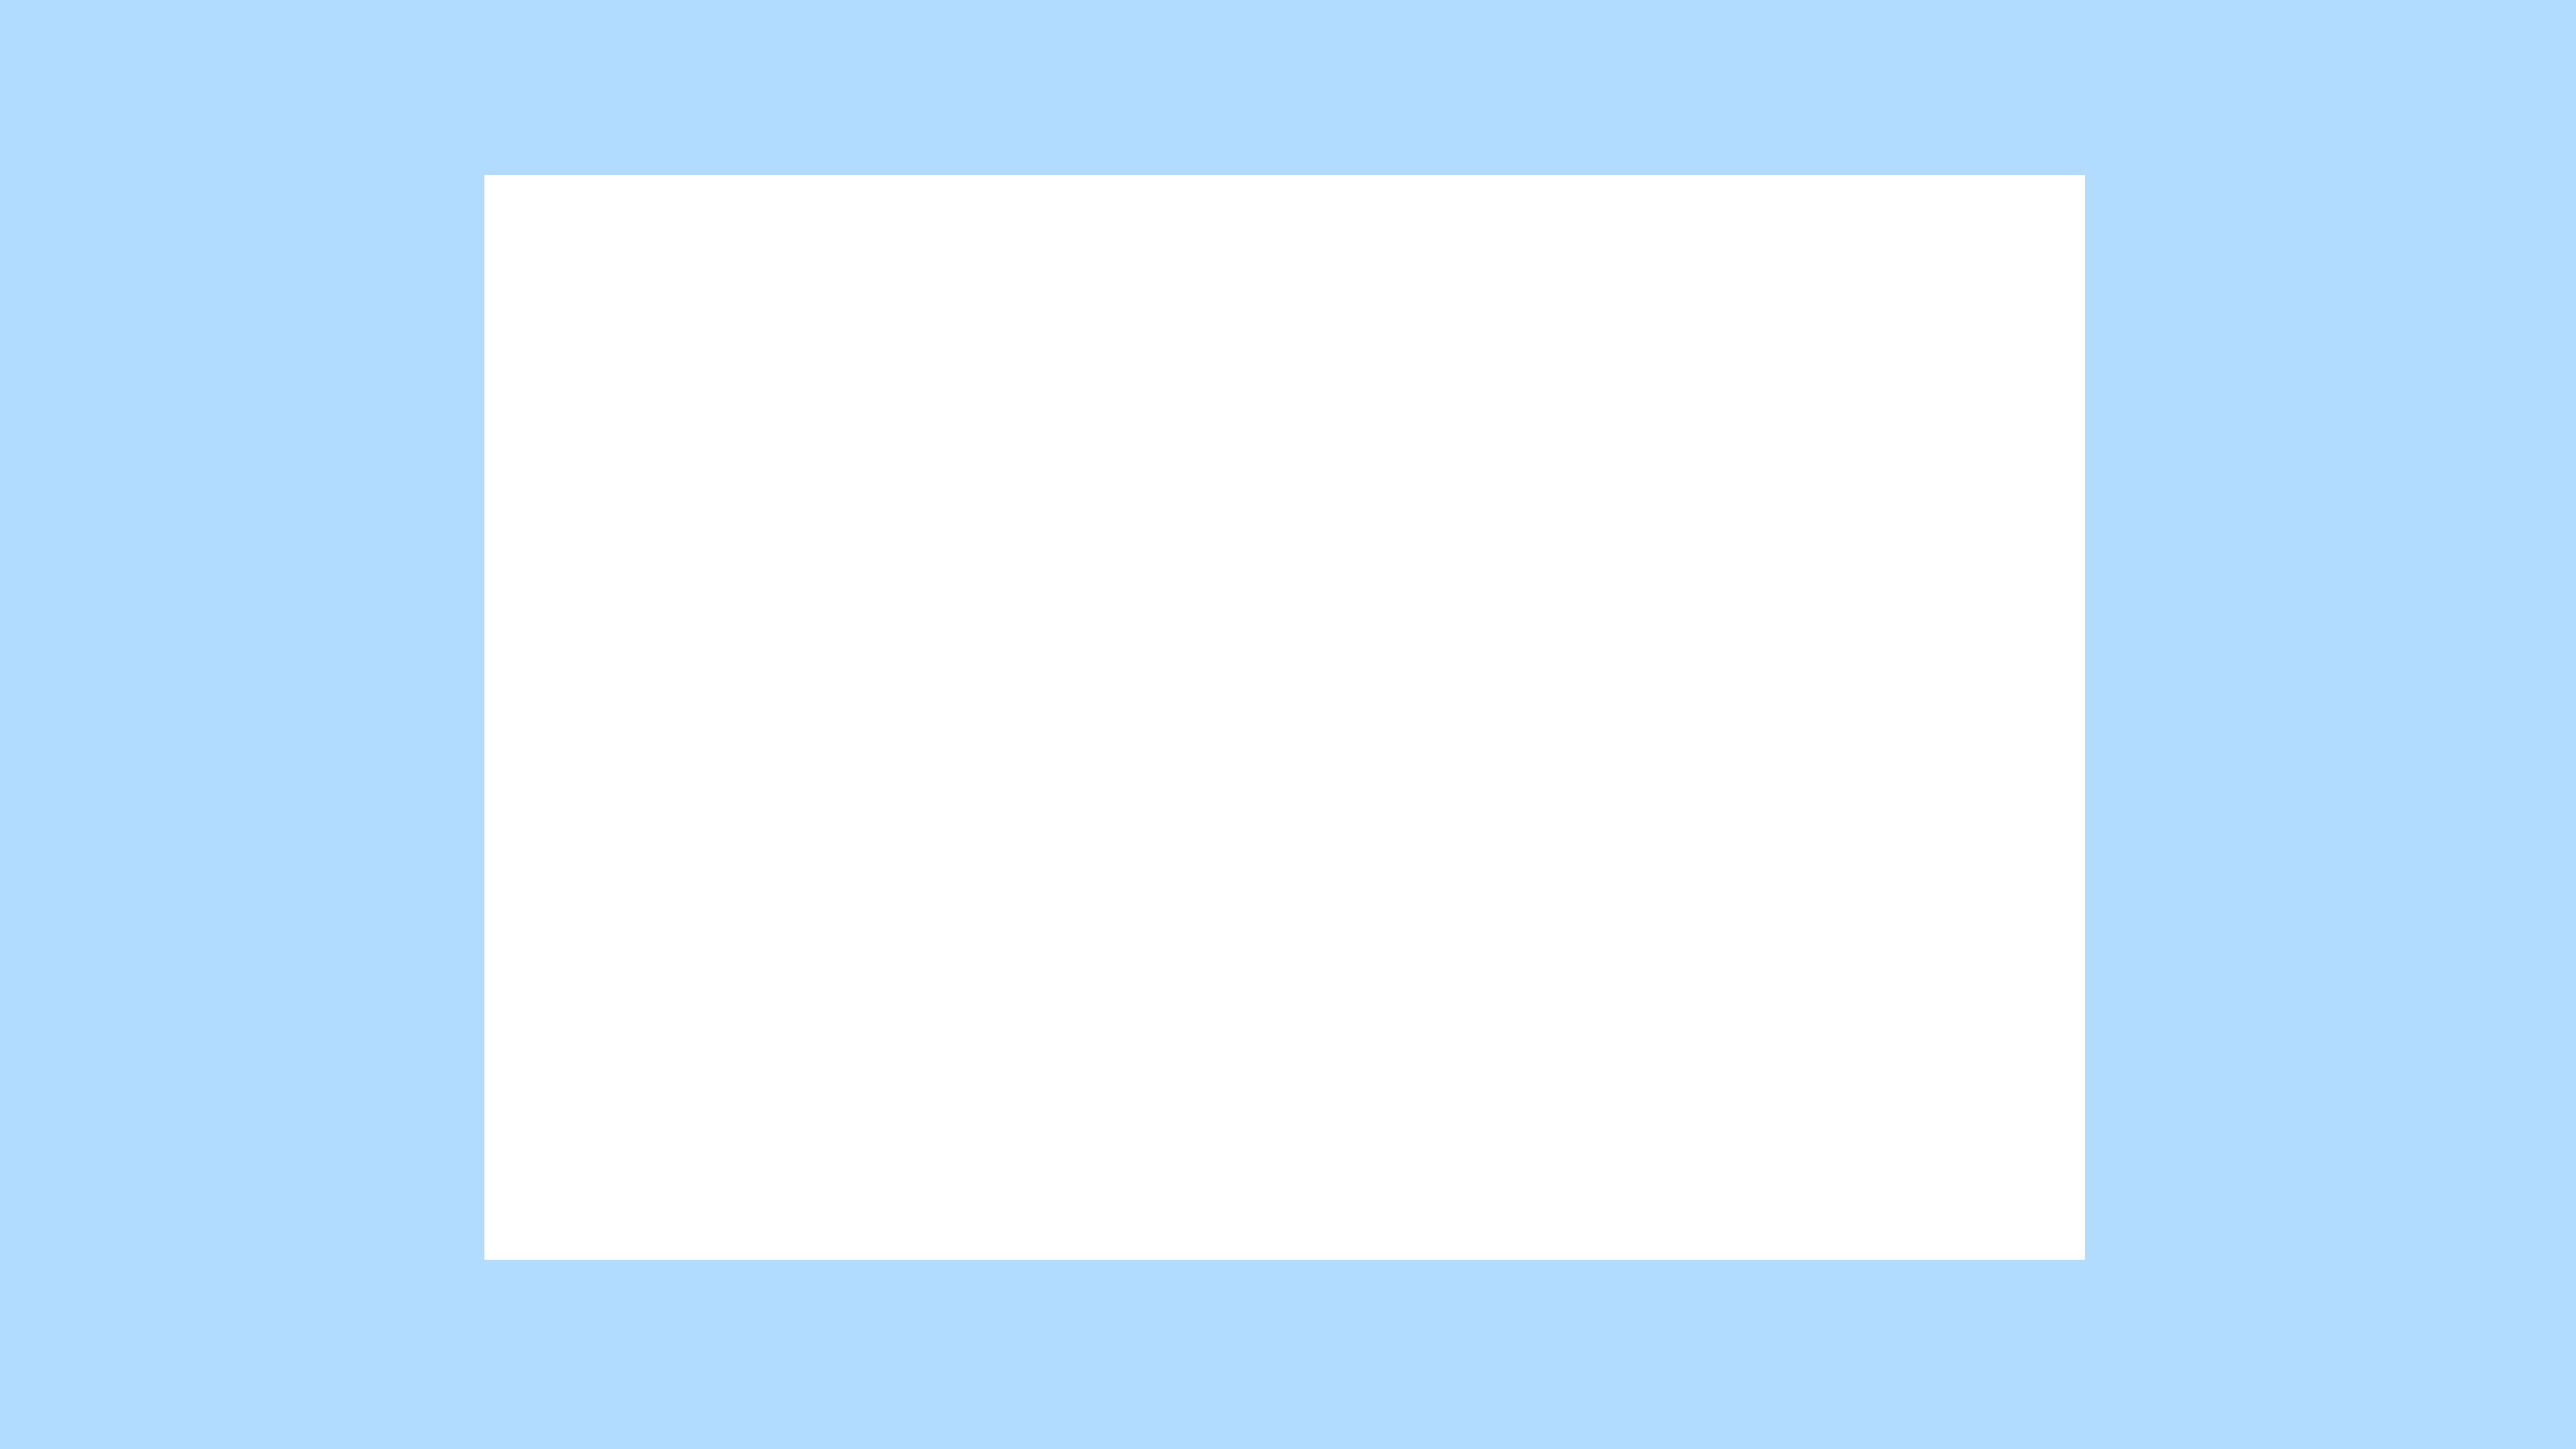
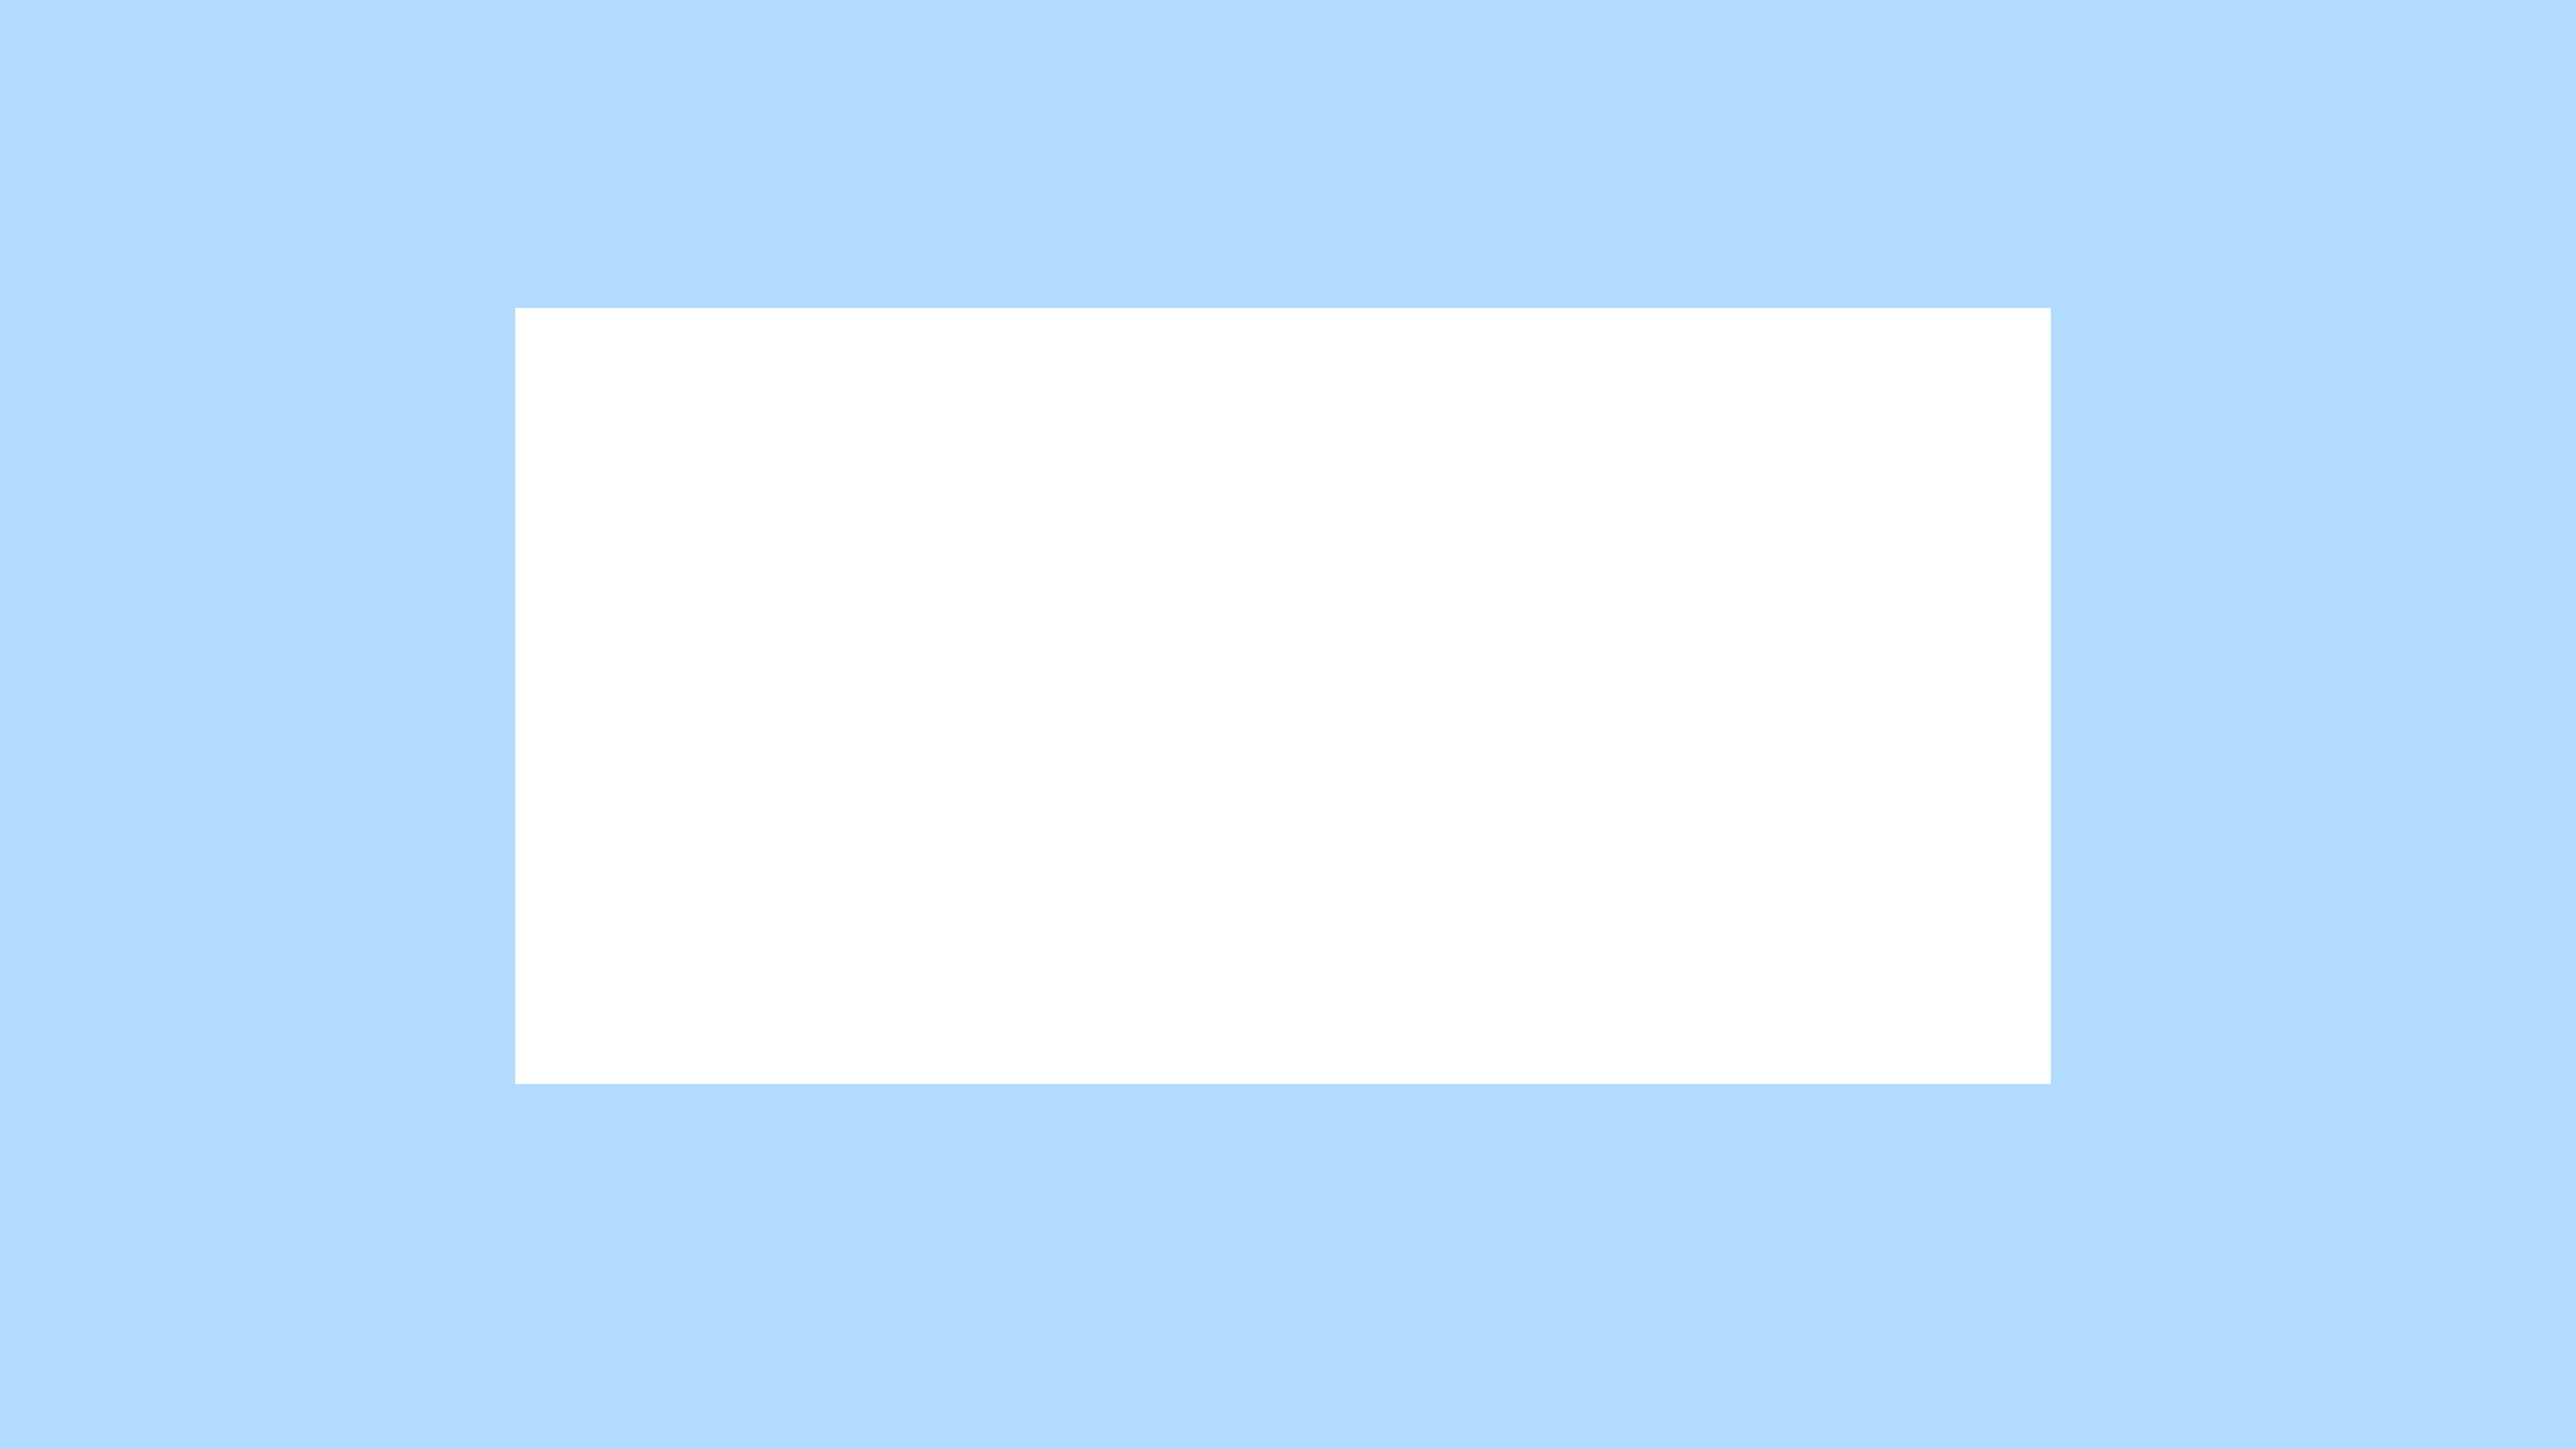
projectje

Changed region(s): [[0.1875, 0.0931, 0.8125, 0.8685]]

diff --git a/src/script.js b/src/script.js
@@ -23,30 +23,13 @@ const backgroundMapTexture = new THREE.MeshBasicMaterial({
     transparent: false
 });
 
-const handleMoveCamera = e => {
-    switch (e.keyCode) {
-        case 37:
-            camera.position.x = camera.position.x - 2;
-            break;
-        case 38:
-            camera.position.y = camera.position.y + 2;
-            break;
-        case 39:
-            camera.position.x = camera.position.x + 2;
-            break;
-        case 40:
-            camera.position.y = camera.position.y - 2;
-            break;
-    }
-}
-
 let controls;
 
 const home = () => {
-    const shapeBackgroundMap = new THREE.PlaneGeometry(200, 120);
+    const shapeBackgroundMap = new THREE.PlaneGeometry(20, 10);
     const meshBackgroundMap = new THREE.Mesh(shapeBackgroundMap, backgroundMapTexture);
-    meshBackgroundMap.position.z = -40;
-    meshBackgroundMap.position.y =6;
+    meshBackgroundMap.position.z = -30;
+    meshBackgroundMap.position.y =0;
     scene.add(meshBackgroundMap);
     //document.addEventListener(`keydown`, handleMoveCamera);
 }
@@ -310,24 +293,23 @@ const sceneTwo = () => {
     new TWEEN.Tween(camera.position)
     .to(
       {
-        y: 35,
-      }, 800)
+        y: 40,
+      }, 500)
       .easing(TWEEN.Easing.Sinusoidal.In)
       .onComplete(() => {
-            new TWEEN.Tween(camera.position)
-            .to(
-              {
-                z: -3,
-              }, 200)
-              .easing(TWEEN.Easing.Sinusoidal.In)
-              .onComplete(() => {
-                document.addEventListener(`mousemove`, handleMoveDocument);
-                mapCamera= true;
-            })
-            .start();
         })
     .start();
-
+    new TWEEN.Tween(camera.position)
+    .to(
+      {
+        z: -25,
+      }, 500)
+      .easing(TWEEN.Easing.Sinusoidal.In)
+      .onComplete(() => {
+        document.addEventListener(`mousemove`, handleMoveDocument);
+        mapCamera= true;
+    })
+    .start();
 }
 
 const handleClickDocument = e => {
@@ -386,8 +368,8 @@ const tick = () => {
         meshBackground.position.y = .03 * (targetY -  meshBackground.position.y);
     }
     if (mapCamera) {
-        camera.position.x = -.6 * -(targetX -  camera.position.x);
-        camera.position.y = .5 * -(targetY -  camera.position.y);
+        camera.position.x = -.05 * -(targetX -  camera.position.x);
+        camera.position.y = .05 * -(targetY -  camera.position.y);
     }
 
     // Update Orbital Controls
@@ -395,17 +377,6 @@ const tick = () => {
         //controls.update(delta);
         //controls.movementSpeed = 0.33 * 100;    
     }
-
-    //console.log(geometry.boundingSphere);
-    // geometry.forEach(geometry.vertices, function(particle){
-    //     var dX, dY, dZ;
-    //     dX = Math.random() * 2 - 1;
-    //     dY = Math.random() * 2 - 1;
-    //     dZ = Math.random() * 2 - 1;
-    
-    //     particle.add(new THREE.Vector3(dX, dY, dZ));
-    //   });
-    //   geometry.verticesNeedUpdate = true;
 
     // Render
     renderer.render(scene, camera);
